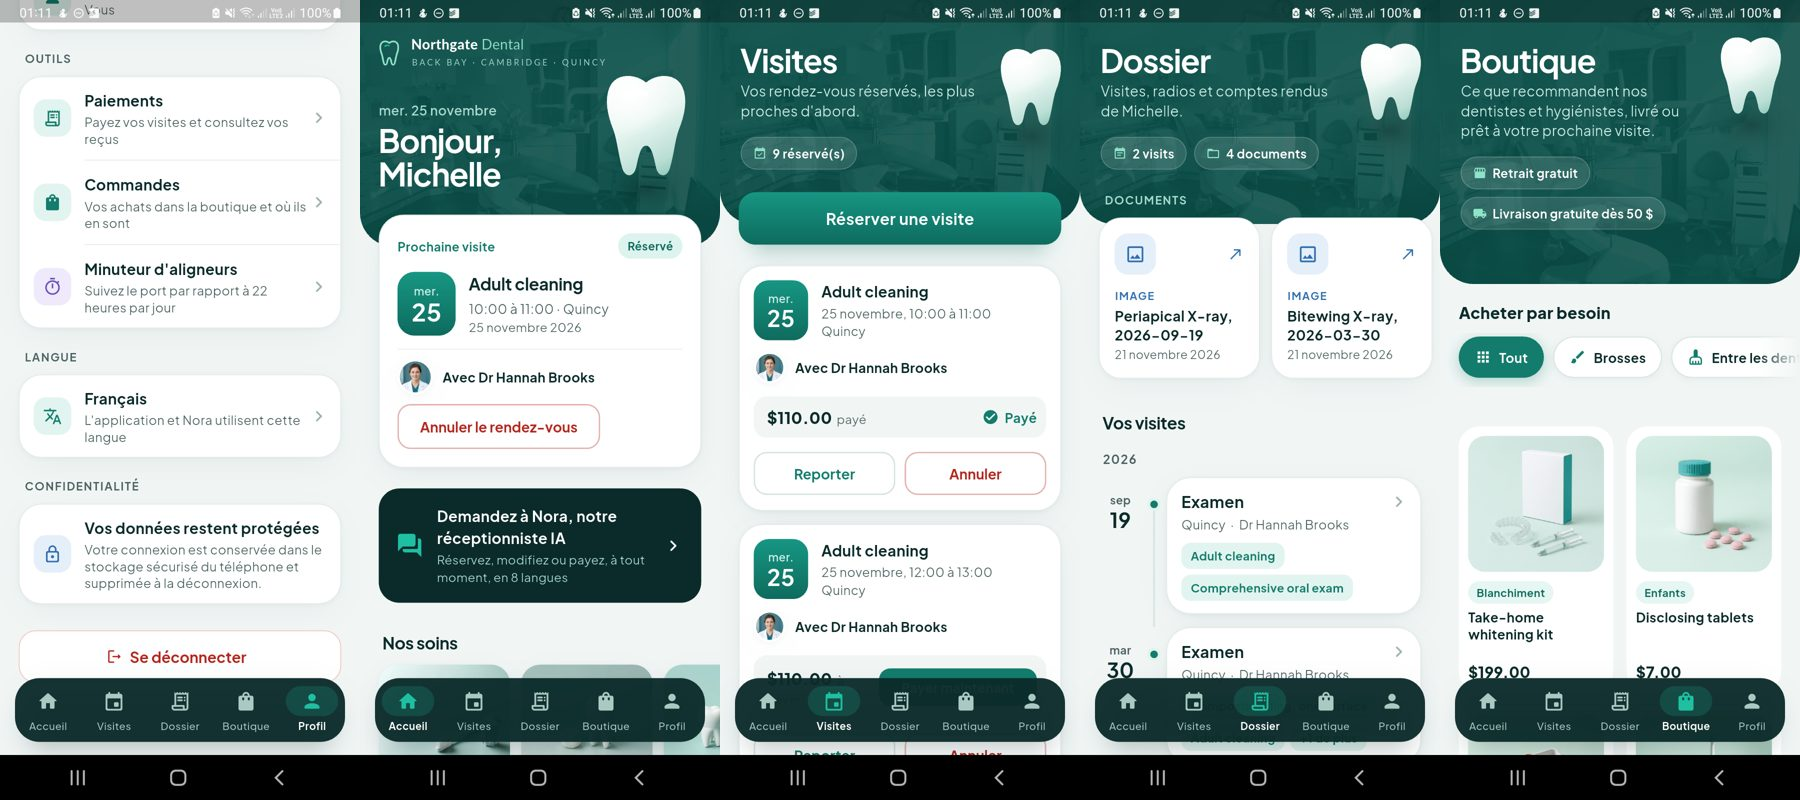
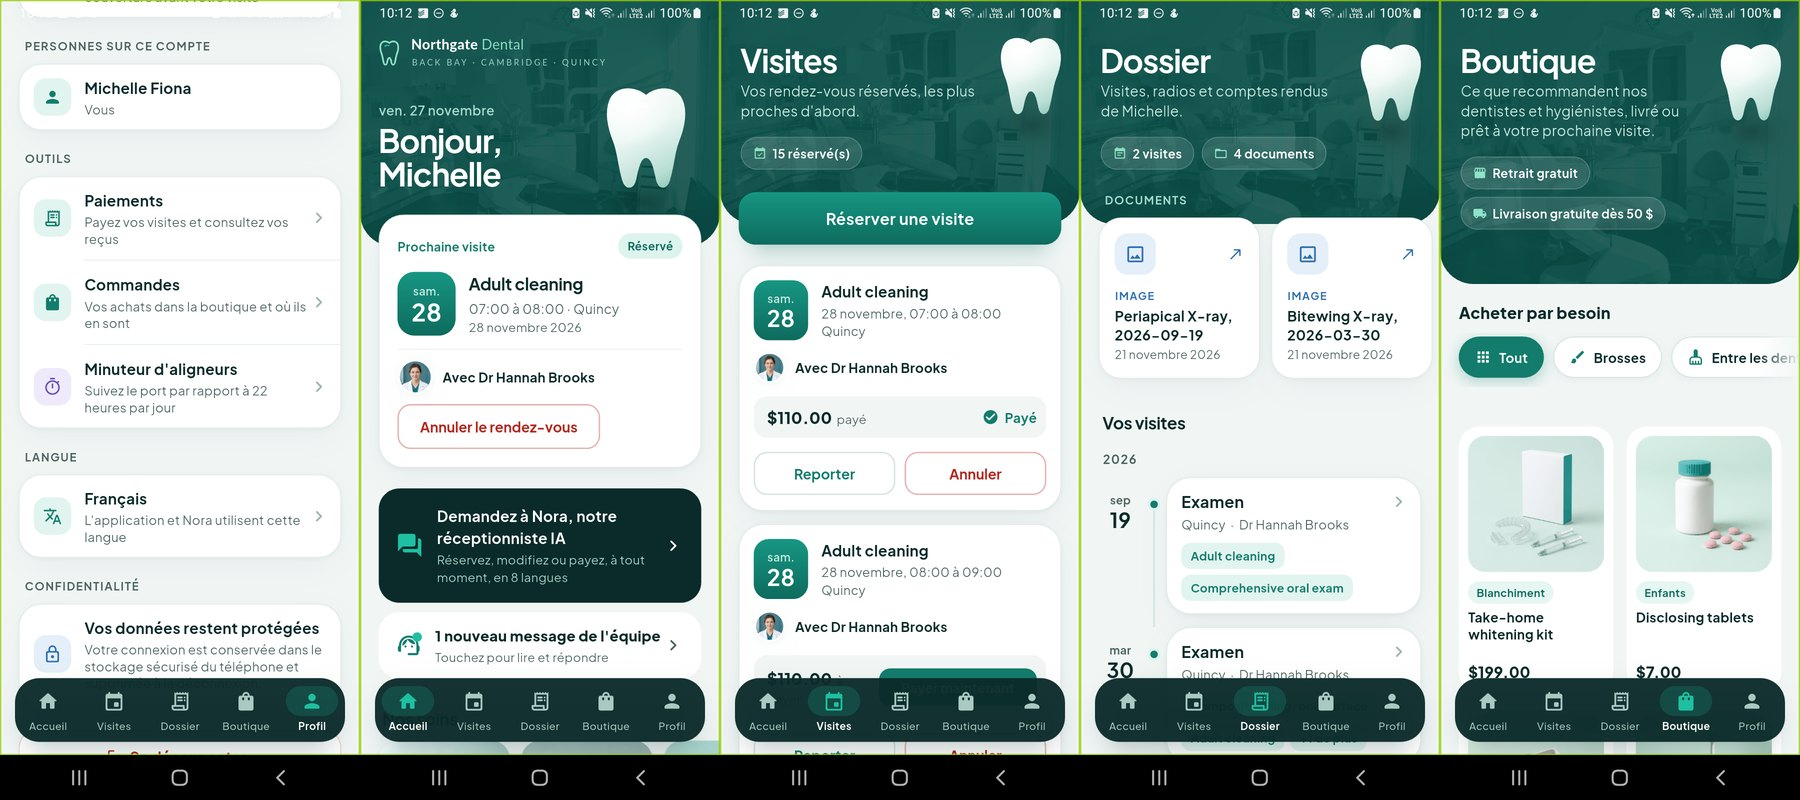
docs(readme): principles inside each section, scaling, VM hosting, live links, five app languages and the n8n workflows (#154)
## What

- **Principles inside each section.** The separate section is gone. Each
principle now sits in the section that applies it, with the book it
comes from: the outbox and idempotent consumers under Queues, deep
modules and unrepresentable illegal states under Payments,
infrastructure as code under Oracle, SLOs under Monitoring, and so on.
- **What happens when the number of users grows:** for each part, what
breaks first, where we would see it, and the next step.
- **Hosting on the VM:** every Compose service with its job, memory
limit and networks, what is public, secrets, access, deploys and
backups.
- **Live links** under the intro: the website, the portal demo, the
staff portal and the status page.
- **The app in five languages:** English first, then French, German,
Spanish and Italian.
- **n8n workflows:** eight pictures from the n8n editor, with their
notes.
- **Payments:** Nora's "Pay securely" email and Stripe Checkout with the
test card, with the Keystone sandbox bar cropped off; proof from the 27
November run.

diff --git a/README.md b/README.md
@@ -4,6 +4,13 @@ A dental practice system and patient app for a fictional US dental group with th
 
 **Every patient, staff member, visit and document here is fictional, generated test data.** X-rays and images are licensed or generated and credited. No real patient data is used anywhere.
 
+| Try it live | Link |
+| --- | --- |
+| The website | [northgate-dental.vercel.app](https://northgate-dental.vercel.app) |
+| The staff portal, with sample data and no sign-in | [northgate-dental.vercel.app/portal/demo](https://northgate-dental.vercel.app/portal/demo/) |
+| The staff portal (staff accounts, two-factor) | [northgate-dental.vercel.app/portal](https://northgate-dental.vercel.app/portal/) |
+| Live status of every service | [status.84-12-126-31.sslip.io](https://status.84-12-126-31.sslip.io/status/northgate) |
+
 | Home | Booking | Visit record |
 | --- | --- | --- |
 | ![Home screen](.github/readme/home.jpg) | ![Booking](.github/readme/booking.jpg) | ![Visit record](.github/readme/visit.jpg) |
@@ -96,6 +103,8 @@ flowchart LR
 5. **Files:** X-rays and visit summaries sit in a private bucket. The app receives a signed link valid for 5 minutes and opens the PDF inside the app.
 6. **On the server:** every public request passes through ModSecurity with the OWASP Core Rule Set, which refuses cross-site scripting, SQL injection, path traversal and command injection with a 403, before any service sees the request.
 
+**Principles:** defence in depth and least privilege (*Security Engineering*, Ross Anderson): the WAF, the network rules and row level security are each sufficient on their own, and every service has its own database role with only the functions it needs.
+
 </details>
 
 <details>
@@ -127,6 +136,8 @@ A dental group's data is relational: patients, appointments, clinicians, rooms, 
 - **pgTAP** tests every policy with real sign-ins, for both what each role may do and what it must be refused.
 - **Region:** us-east-1, so US patient data stays in the US.
 - **Trade-off accepted:** the free plan has no point-in-time recovery, which is why the nightly encrypted backup exists.
+
+**Principles:** a ubiquitous language (*Domain-Driven Design*, Eric Evans): tables, functions and files use the clinic's own words (appointment, hold, proxy, recall), kept in a glossary; and the simplest thing that could possibly work (*Extreme Programming Explained*, Kent Beck): one database, with no separate broker, cache or vector store until a measured need says otherwise.
 
 </details>
 
@@ -183,14 +194,14 @@ sequenceDiagram
 - 24 database tests (`20_queues`, `21_worker_context`).
 - The worker's tests, including one against a real database. It books a visit for the canary patient, checks that exactly one email is sent and that a repeat sends nothing, and scans the logs for every canary value.
 
+**Principles:** the **transactional outbox** (*Designing Data-Intensive Applications*, Martin Kleppmann; *Microservices Patterns*, Chris Richardson): the event is written in the booking's own transaction, so it can never be lost or describe a change that rolled back. **Idempotent consumers** give an exactly-once *effect* from at-least-once delivery. **Ordering by version**: the worker re-reads the current status, so a late "booked" never confirms a cancelled visit. **Stability patterns** (*Release It!*, Michael Nygard): timeouts, a separate `urgent` queue as a bulkhead, fixed batches for a steady state, and a **dead-letter queue** after five tries (*Enterprise Integration Patterns*, Hohpe and Woolf).
+
 </details>
 
 <details>
 <summary><b>Payments with Stripe Checkout (test mode), relayed by n8n, decided in Postgres</b></summary>
 
 A receptionist, the app's Pay button or Nora (`send_payment_link`, after the patient presses "Send it") asks for a payment link for a visit; the patient pays on Stripe's hosted Checkout page; Stripe tells us it was paid; the patient gets a receipt. Stripe Checkout was chosen over building a card form because **card numbers never touch Northgate's systems at all**, which keeps the product out of PCI DSS scope beyond the simplest self-assessment (SAQ A).
-
-![Stripe Checkout for a Northgate visit, test card](.github/readme/stripe-checkout.png)
 
 ```mermaid
 sequenceDiagram
@@ -243,11 +254,18 @@ sequenceDiagram
 **Proof:**
 - `22_payments.test.sql`: tampered body, wrong secret, a replay older than five minutes, a wrong amount, a duplicate event, and writes by a signed-in user are all refused; a correct event is recorded once and queues one receipt carrying IDs only.
 - The worker test signs an event in Python, so it proves Python's HMAC and Postgres's agree byte for byte.
-- On staging, a real test-mode payment went from link to receipt email.
+- On staging, on 27 November 2026: Nora emailed a payment link (06:47 UTC), the patient paid $110.00 with Stripe's test
+  card on the Checkout page (06:56), the database recorded it as paid, and the receipt email arrived the same minute.
+
+| Nora's "Pay securely" email | Stripe Checkout, test card |
+| --- | --- |
+| ![The payment link email](.github/readme/emails/paylink.png) | ![Stripe Checkout with the test card](.github/readme/stripe-checkout.png) |
 
 | Forged webhook refused | Payment tests |
 | --- | --- |
 | ![Forged event refused](.github/readme/forged-webhook.png) | ![Database tests](.github/readme/payments-tests.png) |
+
+**Principles:** **deep modules** (*A Philosophy of Software Design*, John Ousterhout): `record_stripe_event(raw_body, signature)` is one call that hides signature checks, replay protection, de-duplication, amount checks, state changes and the receipt. **Make illegal states unrepresentable** (*Domain Modeling Made Functional*, Scott Wlaschin): a payment is `paid` if and only if `paid_at` is set, money is whole cents, and one live payment per visit is a unique index, not a hope.
 
 </details>
 
@@ -290,6 +308,25 @@ If the page does not load: the Bastion refuses sessions from an IP outside `clie
 - **Hardening:** `N8N_BLOCK_ENV_ACCESS_IN_NODE` stops Code nodes reading server secrets; successful runs save no data; failed runs are pruned after 7 days; telemetry is off.
 - **Credentials** are imported with `n8n import:credentials` from stdin inside the container, so passwords never sit on the VM's disk or in shell history. The Stripe key is read from the VM's own `.env` and never travels again.
 - **n8n never does AI.** The project rule is one assistant, built in LangGraph; n8n only runs triggered automations and, from section 09, publishes a few workflows as MCP tools for it.
+
+**The workflows** (each picture is the n8n editor; the green note says what triggers it and what it does, the red note
+what data it touches and which control protects it):
+
+| W03 Cancel link | W04 Payment link |
+| --- | --- |
+| ![W03 Cancel link](.github/readme/n8n/w03-cancel-link.jpg) | ![W04 Payment link](.github/readme/n8n/w04-payment-link.jpg) |
+
+| W05 Stripe payment received | W06 Pay link |
+| --- | --- |
+| ![W05 Stripe payment received](.github/readme/n8n/w05-stripe-payment-received.jpg) | ![W06 Pay link](.github/readme/n8n/w06-pay-link.jpg) |
+
+| W11 Post-visit check-in | W12 Shop checkout |
+| --- | --- |
+| ![W11 Post-visit check-in](.github/readme/n8n/w11-post-visit-checkin.jpg) | ![W12 Shop checkout](.github/readme/n8n/w12-shop-checkout.jpg) |
+
+| W14 Nora action tools (MCP) | W15 Reschedule link |
+| --- | --- |
+| ![W14 Nora action tools over MCP](.github/readme/n8n/w14-nora-action-tools.jpg) | ![W15 Reschedule link](.github/readme/n8n/w15-reschedule-link.jpg) |
 
 </details>
 
@@ -546,6 +583,42 @@ The always-on services run on one Oracle Cloud VM with Docker Compose. Everythin
 - **Three networks:** `edge` faces the internet and only the WAF is on it; `app` is for services; `data` is internal-only, with no route in or out, and holds Presidio.
 - **Every container** has a pinned version, a memory limit, a health check and log rotation, and every image has amd64 and arm64 builds.
 - **Hardening** (`infra/scripts/bootstrap-vm.sh`, run automatically on first boot): keys-only SSH, no root sign-in, fail2ban, automatic security updates, a host firewall for 80 and 443, and a non-root `deploy` user.
+
+**Principles:** **infrastructure as code and immutable servers** (*Infrastructure as Code*, Kief Morris): Terraform for both clouds; the VM is replaced, not patched by hand (`create_before_destroy`), and cloud-init hardens it on first boot.
+
+</details>
+
+<details>
+<summary><b>Hosting on the VM: one Docker Compose stack, three networks, a memory budget</b></summary>
+
+Everything server-side that is not Supabase or Vercel runs on one Oracle VM (`VM.Standard.E3.Flex`, 2 cores, 16 GB,
+Johannesburg, no public IP) as a single Docker Compose project in `/opt/northgate/infra`. Each service is pinned to an
+exact image version and has a memory limit, so one runaway container cannot starve the others.
+
+| Service | Job | Memory limit | Networks | Reachable from the internet |
+| --- | --- | --- | --- | --- |
+| `waf` | Nginx with ModSecurity and the OWASP Core Rule Set; TLS from Let's Encrypt | 300 MB | edge, app | Yes: ports 80 and 443 through the load balancer |
+| `assistant` | Nora (FastAPI and LangGraph) | 512 MB | app | `/assistant/` only |
+| `ollama` | Gemma 4 and the bge-m3 embedder, one conversation at a time | 9 GB | app | No |
+| `voice` | Nora's voice on Stream calls | 2 GB | app | No (outbound only) |
+| `n8n` and `n8n-db` | Automations, payment and visit link pages, Nora's MCP action tools | 1 GB and 256 MB | app, data | `/webhook/` only; the editor and `/mcp/` answer 404 |
+| `worker` and `pdf` | Queue consumer, emails, receipt PDFs | 128 MB and 768 MB | app, data | No |
+| `presidio-analyzer`, `presidio-anonymizer` | Redaction | 1 GB and 256 MB | data | No: the `data` network has no route out |
+| `alloy` | Sends metrics to Grafana Cloud | 256 MB | app | No |
+| `status` | Uptime Kuma | 256 MB | app | The public status page only |
+
+- **Three networks as bulkheads:** `edge` (the WAF and certificates), `app` (services that talk to each other) and
+  `data` (internal only, no route in or out). Presidio sits only on `data`.
+- **Profiles** (`assistant`, `worker`, `n8n`, `voice`, `monitoring`, `status`) start each part on its own, so a
+  smaller VM can run a subset.
+- **Secrets** live in `infra/.env` on the VM (git-ignored, mode 600) and in n8n's encrypted credential store; nothing
+  secret is in Git or in an image.
+- **Access:** SSH only through Oracle Bastion from one admin address (`infra/scripts/ssh-vm.sh`); the dashboards of
+  n8n and Kuma are reached through the same tunnel.
+- **Deploying:** `git pull --ff-only origin develop`, then `docker compose --profile <part> up -d --build <service>`.
+  Database changes never deploy from the VM; they go through the GitHub Actions workflow on merge.
+- **Backups:** a nightly `pg_dump`, encrypted with `age`, uploaded with a key that can add files but not read or
+  delete them.
 
 </details>
 
@@ -838,6 +911,8 @@ from the internet.
 **Scripted journey check:** a GitHub Actions job checks the website, the database catalogue and Nora's health every 15
 minutes, so a broken path is noticed even when nobody is using it.
 
+**Principles:** **service level objectives and error budgets** (*Site Reliability Engineering*, Google): targets are written down in `ops/slos.yaml` and alerts fire on user-visible symptoms (down, slow, refusing), each with a runbook.
+
 </details>
 
 <details>
@@ -856,40 +931,15 @@ Every pull request runs:
 
 Merges into `develop` apply database migrations to staging automatically.
 
-</details>
-
-## Engineering principles, and where they show in the code
-
-Each principle below comes from a well-known software engineering book, and each is tied to something in this repository you can open and check.
-
-<details>
-<summary><b>From the books to this repository</b></summary>
-
-| Principle | Book | Where it is applied here |
-| --- | --- | --- |
-| **The transactional outbox**: publish events in the same transaction as the change | *Designing Data-Intensive Applications*, Martin Kleppmann; *Microservices Patterns*, Chris Richardson | `private.publish_appointment_event()` writes to the queue inside the booking's own transaction, so an event can never be lost or describe a change that rolled back |
-| **Idempotent consumers**: at-least-once delivery plus de-duplication gives an exactly-once *effect* | *Designing Data-Intensive Applications* | `private.mark_processed()` for appointment events and Stripe events; `notification_log` claimed before every email; Stripe and Resend idempotency keys |
-| **Ordering with version numbers** | *Designing Data-Intensive Applications* | Every appointment event carries a version; the worker re-reads the current status before sending, so a late "booked" never confirms a cancelled visit |
-| **Stability patterns: timeouts, bulkheads, steady state, fail fast** | *Release It!*, Michael Nygard | HTTP timeouts in the worker; a separate `urgent` queue and separate Docker networks (bulkheads); fixed batches of 10 and pruned n8n executions (steady state); bad signatures refused before any work is done (fail fast) |
-| **Dead-letter queue for poison messages** | *Enterprise Integration Patterns*, Gregor Hohpe and Bobby Woolf | After five failed tries a message moves to `dead_letter` instead of blocking the queue |
-| **Deep modules: a narrow interface over a lot of behaviour** | *A Philosophy of Software Design*, John Ousterhout | `record_stripe_event(raw_body, signature)` is one call that hides signature checks, replay protection, de-duplication, amount checks, state changes and the receipt; `notification_context()` hides every join the worker would otherwise need |
-| **Make illegal states unrepresentable** | *Domain Modeling Made Functional*, Scott Wlaschin | Check constraints: a payment is `paid` if and only if `paid_at` is set; money is whole cents; one live payment per visit is a unique index, not a hope |
-| **Ubiquitous language** | *Domain-Driven Design*, Eric Evans | Tables, functions and files use the clinic's own words (appointment, hold, proxy, recall), kept in a glossary |
-| **Test first, and test the thing that must be refused** | *Test-Driven Development: By Example*, Kent Beck | 542 database tests, each security rule with an allowed and a denied case; every edge case has a test before the code |
-| **Don't live with broken windows; automate everything** | *The Pragmatic Programmer*, Andrew Hunt and David Thomas | Pre-commit hooks, gitleaks, shellcheck and a commit-message guard; CI blocks merges on any failure; deployments run from GitHub Actions, not by hand |
-| **Small batches, trunk-based flow, deployment automation** | *Accelerate*, Nicole Forsgren, Jez Humble and Gene Kim | One small pull request per ticket into `develop`; every merge deploys migrations to staging; production waits for a required reviewer |
-| **Infrastructure as code, immutable servers** | *Infrastructure as Code*, Kief Morris | Terraform for both clouds; the VM is replaced, not patched by hand (`create_before_destroy`); cloud-init hardens it on first boot |
-| **Service level objectives and error budgets** | *Site Reliability Engineering*, Google | Reminders within 5 minutes of their due time and queue age under 60 seconds are written targets, alerted on in section 12 |
-| **Least privilege and defence in depth** | *Security Engineering*, Ross Anderson | Separate database roles for the app, the worker and payments; WAF, network rules and row level security, each sufficient alone |
-| **Refactor in small, safe steps** | *Refactoring*, Martin Fowler | Changes such as the receipt type were added behind the existing worker loop with tests around them, not as a rewrite |
-| **The simplest thing that could possibly work** | *Extreme Programming Explained*, Kent Beck | One database (no separate broker, cache or vector store) until a measured need says otherwise |
+**Principles:** **don't live with broken windows; automate everything** (*The Pragmatic Programmer*, Hunt and Thomas): pre-commit hooks, gitleaks, shellcheck and a commit-message guard, and CI blocks a merge on any failure. **Small batches and deployment automation** (*Accelerate*, Forsgren, Humble and Kim): one small pull request per ticket into `develop`, every merge deploys migrations to staging, and production waits for a required reviewer.
 
 </details>
 
 ## Testing: every edge case has a test, and the refusals are tested too
 
-Tests are written before the code, and every rule is tested from both sides: the allowed case and the case that must be
-refused. All of them run in CI on every pull request; nothing merges red.
+Tests are written before the code (*Test-Driven Development: By Example*, Kent Beck), and every rule is tested from both
+sides: the allowed case and the case that must be refused. All of them run in CI on every pull request; nothing merges
+red. Changes are made in small, safe steps with tests around them (*Refactoring*, Martin Fowler), never as rewrites.
 
 | Suite | Count | What it proves | Runs against |
 | --- | --- | --- | --- |
@@ -956,6 +1006,32 @@ wrote 3,519, about **2,460 tokens in and 43 out per turn**.
 against 50 human-labelled answers before its scores are trusted, and a weekly review of sampled conversations. The
 golden sets and thresholds are in place for both.
 
+## What happens when the number of users grows
+
+The demo runs on one small VM and Supabase's smallest plan. That is deliberate: every part was chosen so that the next
+step up is a configuration change or one well-understood component, not a rewrite. Here is where each part breaks
+first, how we would know, and what we would do.
+
+| Part | Today | Breaks first when | We would see it in | The next step |
+| --- | --- | --- | --- | --- |
+| Website | Static files on Vercel's CDN | Practically never: no server code runs | Vercel analytics | Nothing; it already scales with the CDN |
+| App reads and bookings | Supabase Postgres, row level security, PostgREST | Connections and slow policies under hundreds of concurrent users | Supabase query performance, p95 of `available_slots` | Supavisor connection pooling (transaction mode), indexes on every policy predicate (`patient_id`, `location_id`), a bigger compute tier, then a read replica for reads |
+| Double booking at peak | Exclusion constraints in the database | Never: the database refuses the second booking whatever the load | The "no longer available" rate | Nothing; correctness does not depend on load |
+| Nora (the model) | Gemma on 2 CPU cores, one conversation at a time (`OLLAMA_NUM_PARALLEL=1`) | Immediately: a second patient waits for the first; p95 is already 64.8 s | `nora_turn_seconds` p95 alert | Move the model behind `model_for(role)` to Amazon Bedrock or a GPU server, promoted only after the evaluations pass; replies drop to a few seconds and scale with the provider |
+| Nora (the service) | One FastAPI process; paused conversations kept in memory (`MemorySaver`) | A restart loses a conversation waiting for its Confirm button; a second replica would not know the first one's conversations | Confirm-card errors after deploys | LangGraph's Postgres checkpointer, then several stateless replicas behind Nginx |
+| Emails and reminders | One worker reading Supabase Queues in batches of 10 | Thousands of reminders at 9:00 | Queue depth and oldest message age | More worker replicas: messages are claimed atomically and every send is idempotent, so replicas need no coordination. Urgent clinical messages already have their own queue and cannot wait behind a campaign |
+| n8n | One instance, regular mode | Many webhooks or long workflows at once | Execution time, failed executions | n8n queue mode (main plus workers on Redis); n8n holds no business rules, so this changes nothing else |
+| Payments | Stripe Checkout and a signed webhook | Stripe retries during our outage | Webhook failures in Stripe | Nothing new: events are de-duplicated by ID and replayed safely |
+| Audit trail | `ai_events` and the audit log in Postgres | Tens of millions of rows | Table size, slow portal pages | Monthly partitions, older ones archived to S3 |
+| The VM itself | One VM in one region | Hardware or region failure | The status page and the scripted journey check | The planned three-cloud design: a warm standby on AWS, an automation lease with fencing tokens so only one copy sends messages, and a rehearsed failover |
+
+**Overload behaves predictably.** Nginx rate-limits per address and answers 429 before any service is touched (a WAF
+test floods it to prove this), and the worker takes fixed batches. Under pressure the system slows down in a known
+order; it does not lose bookings or send a message twice.
+
+**What does not change with scale:** where the data lives, who can see it, and what each model call receives. Adding
+replicas or moving the model to Bedrock changes capacity, not the governance answers.
+
 ## Patient emails
 
 Every email the practice sends is built by the worker from one shared frame: tables instead of modern CSS so Gmail, Apple Mail and Outlook render it the same, system fonts, dark mode, one main button, and the clinic's number as a tap-to-call link. Service emails carry no images at all, so nothing is fetched and nothing breaks when images are blocked. Campaign emails add one hero picture, an offer card and up to three reasons, in the style of a well-run Mailchimp account, and always carry one-click unsubscribe.
@@ -997,7 +1073,28 @@ Every email the practice sends is built by the worker from one shared frame: tab
 - **Shop:** clinician-recommended products by category, refills every few months, collection at a chosen clinic or delivery, prescription items unlocked by the dentist, and orders under Profile.
 
 
+Each row shows Profile (with the language setting), Home, Visits, Records and Shop on the same account. The language
+is chosen once in Profile and applies to the whole app and to Nora.
+
+**English**
+
+![The app in English: Profile, Home, Visits, Records and Shop](.github/readme/app-in-english.jpg)
+
+**French**
+
 ![The app in French: Profile, Home, Visits, Records and Shop](.github/readme/app-in-french.jpg)
+
+**German**
+
+![The app in German: Profile, Home, Visits, Records and Shop](.github/readme/app-in-german.jpg)
+
+**Spanish**
+
+![The app in Spanish: Profile, Home, Visits, Records and Shop](.github/readme/app-in-spanish.jpg)
+
+**Italian**
+
+![The app in Italian: Profile, Home, Visits, Records and Shop](.github/readme/app-in-italian.jpg)
 
 </details>
 
